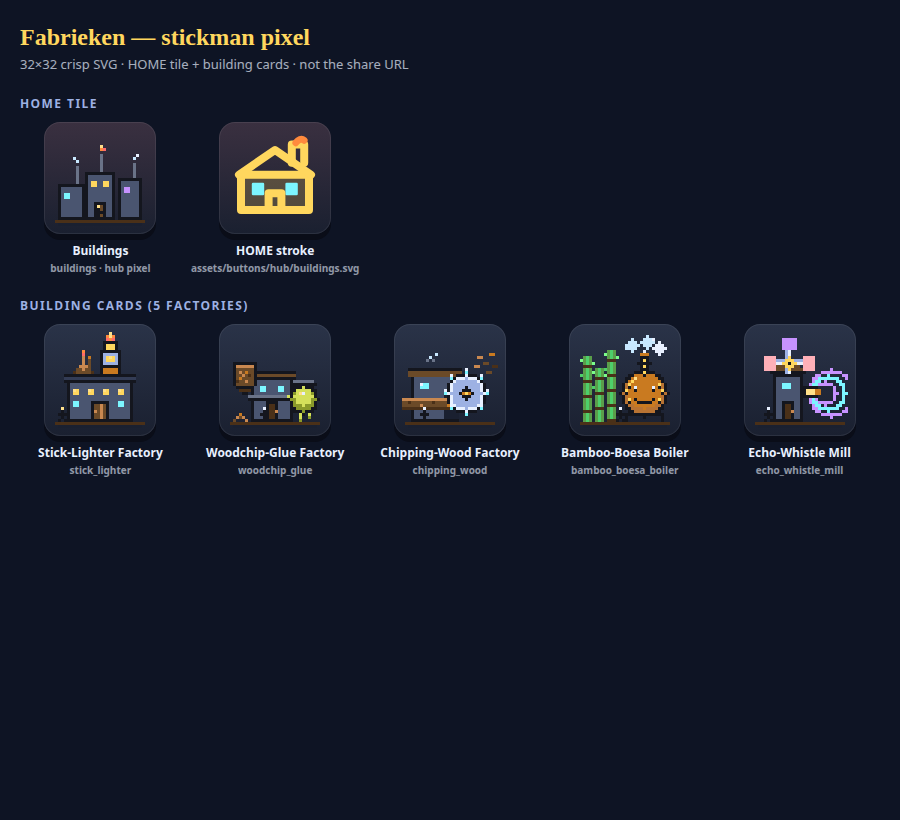
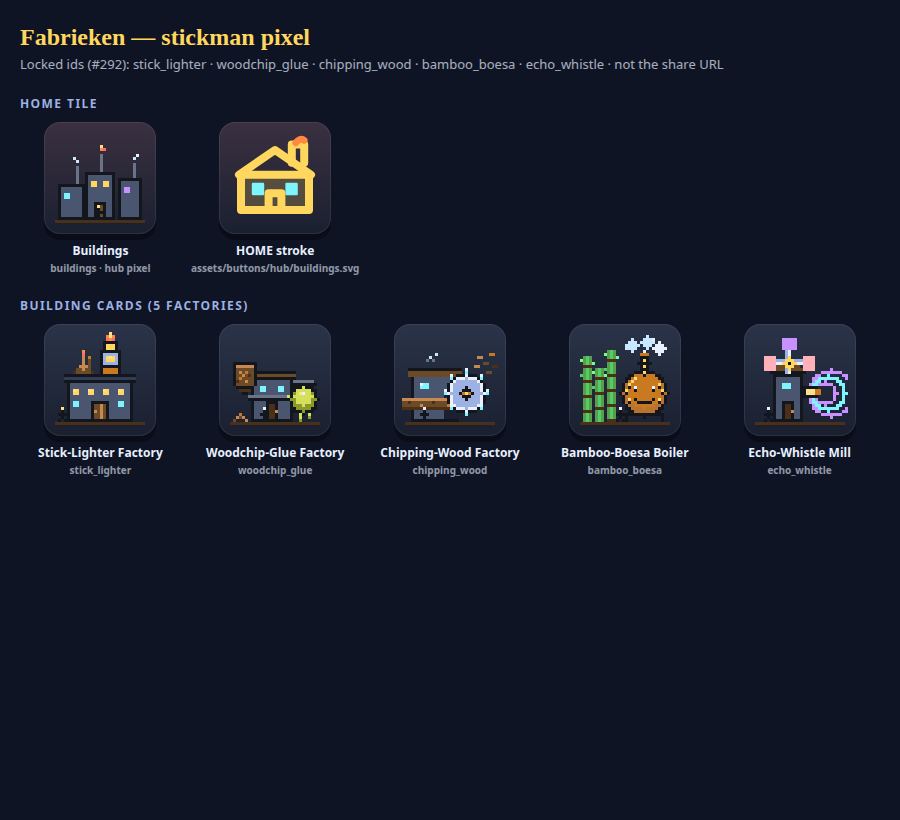
fix(assets): wire factory pixels to #292 locked ids
BUILDING_IDS now exact-match systems: stick_lighter, woodchip_glue,
chipping_wood, bamboo_boesa, echo_whistle. Draft aliases
bamboo_boesa_boiler / echo_whistle_mill still resolve. Mega-merge only.

Changed region(s): [[0.0311, 0.061, 0.8089, 0.0915], [0.6222, 0.5488, 0.7467, 0.5793], [0.84, 0.5488, 0.9333, 0.5793]]

diff --git a/game.js b/game.js
@@ -11740,8 +11740,8 @@ function summonRevealCardDelayMs(totalMs) {
  *   stick_lighter
  *   woodchip_glue
  *   chipping_wood
- *   bamboo_boesa_boiler
- *   echo_whistle_mill
+ *   bamboo_boesa
+ *   echo_whistle
  *
  * Preview: assets/buildings/preview.html
  * Map:     BUILDING-PIXEL-MAP.md
@@ -11776,21 +11776,21 @@ const BUILDING_PIXELS = {
     hub: 'assets/buttons/hub/buildings.svg',
     iconFile: 'assets/buttons/modes/buildings-chipping-wood.svg',
   },
-  bamboo_boesa_boiler: {
-    id: 'bamboo_boesa_boiler',
+  bamboo_boesa: {
+    id: 'bamboo_boesa',
     name: 'Bamboo-Boesa Boiler',
     nameNl: 'Bamboe-Boesa Ketel',
     accent: '#4ecf6a',
-    card: 'assets/buildings/bamboo_boesa_boiler.svg',
+    card: 'assets/buildings/bamboo_boesa.svg',
     hub: 'assets/buttons/hub/buildings.svg',
     iconFile: 'assets/buttons/modes/buildings-bamboo-boesa.svg',
   },
-  echo_whistle_mill: {
-    id: 'echo_whistle_mill',
+  echo_whistle: {
+    id: 'echo_whistle',
     name: 'Echo-Whistle Mill',
     nameNl: 'Echo-Fluitmolen',
     accent: '#c792ff',
-    card: 'assets/buildings/echo_whistle_mill.svg',
+    card: 'assets/buildings/echo_whistle.svg',
     hub: 'assets/buttons/hub/buildings.svg',
     iconFile: 'assets/buttons/modes/buildings-echo-whistle.svg',
   },
@@ -11800,8 +11800,8 @@ const BUILDING_IDS = [
   'stick_lighter',
   'woodchip_glue',
   'chipping_wood',
-  'bamboo_boesa_boiler',
-  'echo_whistle_mill',
+  'bamboo_boesa',
+  'echo_whistle',
 ];
 
 /** HOME tile (stroke + pixel). */
@@ -11836,19 +11836,21 @@ const BUILDING_PIXEL_ALIASES = {
   woodchipper: 'chipping_wood',
   'chip-wood': 'chipping_wood',
 
-  bambooboesaboiler: 'bamboo_boesa_boiler',
-  bambooboesa: 'bamboo_boesa_boiler',
-  'bamboo-boesa': 'bamboo_boesa_boiler',
-  'boesa-boiler': 'bamboo_boesa_boiler',
-  boesa: 'bamboo_boesa_boiler',
-  'bamboo-boiler': 'bamboo_boesa_boiler',
-  bambooboiler: 'bamboo_boesa_boiler',
+  bamboo_boesa_boiler: 'bamboo_boesa',
+  bambooboesaboiler: 'bamboo_boesa',
+  bambooboesa: 'bamboo_boesa',
+  'bamboo-boesa': 'bamboo_boesa',
+  'boesa-boiler': 'bamboo_boesa',
+  boesa: 'bamboo_boesa',
+  'bamboo-boiler': 'bamboo_boesa',
+  bambooboiler: 'bamboo_boesa',
 
-  echowhistlemill: 'echo_whistle_mill',
-  'whistle-mill': 'echo_whistle_mill',
-  whistlemill: 'echo_whistle_mill',
-  'echo-mill': 'echo_whistle_mill',
-  echomill: 'echo_whistle_mill',
+  echo_whistle_mill: 'echo_whistle',
+  echowhistlemill: 'echo_whistle',
+  'whistle-mill': 'echo_whistle',
+  whistlemill: 'echo_whistle',
+  'echo-mill': 'echo_whistle',
+  echomill: 'echo_whistle',
 
   /* leftover generic stubs from early partner drafts — not the locked names */
   dojo: 'chipping_wood',
@@ -11858,17 +11860,17 @@ const BUILDING_PIXEL_ALIASES = {
   smith: 'stick_lighter',
   workshop: 'stick_lighter',
   foundry: 'stick_lighter',
-  garden: 'bamboo_boesa_boiler',
-  farm: 'bamboo_boesa_boiler',
-  kitchen: 'bamboo_boesa_boiler',
+  garden: 'bamboo_boesa',
+  farm: 'bamboo_boesa',
+  kitchen: 'bamboo_boesa',
   tower: 'woodchip_glue',
   watch: 'woodchip_glue',
   barracks: 'woodchip_glue',
   ranch: 'woodchip_glue',
-  shrine: 'echo_whistle_mill',
-  well: 'echo_whistle_mill',
-  temple: 'echo_whistle_mill',
-  mill: 'echo_whistle_mill',
+  shrine: 'echo_whistle',
+  well: 'echo_whistle',
+  temple: 'echo_whistle',
+  mill: 'echo_whistle',
 };
 
 function _buildingKeyForms(id) {

diff --git a/src/data/building-pixels.js b/src/data/building-pixels.js
@@ -5,8 +5,8 @@
  *   stick_lighter
  *   woodchip_glue
  *   chipping_wood
- *   bamboo_boesa_boiler
- *   echo_whistle_mill
+ *   bamboo_boesa
+ *   echo_whistle
  *
  * Preview: assets/buildings/preview.html
  * Map:     BUILDING-PIXEL-MAP.md
@@ -41,21 +41,21 @@ const BUILDING_PIXELS = {
     hub: 'assets/buttons/hub/buildings.svg',
     iconFile: 'assets/buttons/modes/buildings-chipping-wood.svg',
   },
-  bamboo_boesa_boiler: {
-    id: 'bamboo_boesa_boiler',
+  bamboo_boesa: {
+    id: 'bamboo_boesa',
     name: 'Bamboo-Boesa Boiler',
     nameNl: 'Bamboe-Boesa Ketel',
     accent: '#4ecf6a',
-    card: 'assets/buildings/bamboo_boesa_boiler.svg',
+    card: 'assets/buildings/bamboo_boesa.svg',
     hub: 'assets/buttons/hub/buildings.svg',
     iconFile: 'assets/buttons/modes/buildings-bamboo-boesa.svg',
   },
-  echo_whistle_mill: {
-    id: 'echo_whistle_mill',
+  echo_whistle: {
+    id: 'echo_whistle',
     name: 'Echo-Whistle Mill',
     nameNl: 'Echo-Fluitmolen',
     accent: '#c792ff',
-    card: 'assets/buildings/echo_whistle_mill.svg',
+    card: 'assets/buildings/echo_whistle.svg',
     hub: 'assets/buttons/hub/buildings.svg',
     iconFile: 'assets/buttons/modes/buildings-echo-whistle.svg',
   },
@@ -65,8 +65,8 @@ const BUILDING_IDS = [
   'stick_lighter',
   'woodchip_glue',
   'chipping_wood',
-  'bamboo_boesa_boiler',
-  'echo_whistle_mill',
+  'bamboo_boesa',
+  'echo_whistle',
 ];
 
 /** HOME tile (stroke + pixel). */
@@ -101,19 +101,21 @@ const BUILDING_PIXEL_ALIASES = {
   woodchipper: 'chipping_wood',
   'chip-wood': 'chipping_wood',
 
-  bambooboesaboiler: 'bamboo_boesa_boiler',
-  bambooboesa: 'bamboo_boesa_boiler',
-  'bamboo-boesa': 'bamboo_boesa_boiler',
-  'boesa-boiler': 'bamboo_boesa_boiler',
-  boesa: 'bamboo_boesa_boiler',
-  'bamboo-boiler': 'bamboo_boesa_boiler',
-  bambooboiler: 'bamboo_boesa_boiler',
+  bamboo_boesa_boiler: 'bamboo_boesa',
+  bambooboesaboiler: 'bamboo_boesa',
+  bambooboesa: 'bamboo_boesa',
+  'bamboo-boesa': 'bamboo_boesa',
+  'boesa-boiler': 'bamboo_boesa',
+  boesa: 'bamboo_boesa',
+  'bamboo-boiler': 'bamboo_boesa',
+  bambooboiler: 'bamboo_boesa',
 
-  echowhistlemill: 'echo_whistle_mill',
-  'whistle-mill': 'echo_whistle_mill',
-  whistlemill: 'echo_whistle_mill',
-  'echo-mill': 'echo_whistle_mill',
-  echomill: 'echo_whistle_mill',
+  echo_whistle_mill: 'echo_whistle',
+  echowhistlemill: 'echo_whistle',
+  'whistle-mill': 'echo_whistle',
+  whistlemill: 'echo_whistle',
+  'echo-mill': 'echo_whistle',
+  echomill: 'echo_whistle',
 
   /* leftover generic stubs from early partner drafts — not the locked names */
   dojo: 'chipping_wood',
@@ -123,17 +125,17 @@ const BUILDING_PIXEL_ALIASES = {
   smith: 'stick_lighter',
   workshop: 'stick_lighter',
   foundry: 'stick_lighter',
-  garden: 'bamboo_boesa_boiler',
-  farm: 'bamboo_boesa_boiler',
-  kitchen: 'bamboo_boesa_boiler',
+  garden: 'bamboo_boesa',
+  farm: 'bamboo_boesa',
+  kitchen: 'bamboo_boesa',
   tower: 'woodchip_glue',
   watch: 'woodchip_glue',
   barracks: 'woodchip_glue',
   ranch: 'woodchip_glue',
-  shrine: 'echo_whistle_mill',
-  well: 'echo_whistle_mill',
-  temple: 'echo_whistle_mill',
-  mill: 'echo_whistle_mill',
+  shrine: 'echo_whistle',
+  well: 'echo_whistle',
+  temple: 'echo_whistle',
+  mill: 'echo_whistle',
 };
 
 function _buildingKeyForms(id) {

diff --git a/assets/buildings/preview.html b/assets/buildings/preview.html
@@ -21,7 +21,7 @@
 </style>
 </head><body>
 <h1>Fabrieken — stickman pixel</h1>
-<p class="sub">32×32 crisp SVG · HOME tile + building cards · not the share URL</p>
+<p class="sub">Locked ids (#292): stick_lighter · woodchip_glue · chipping_wood · bamboo_boesa · echo_whistle · not the share URL</p>
 <h2>HOME tile</h2>
 <div class="grid">
 <figure data-id="buildings">
@@ -47,12 +47,12 @@
   <div class="zoom"><img src="chipping_wood.svg" alt="Chipping-Wood Factory" width="96" height="96"></div>
   <figcaption>Chipping-Wood Factory<small>chipping_wood</small></figcaption>
 </figure>
-<figure data-id="bamboo_boesa_boiler">
-  <div class="zoom"><img src="bamboo_boesa_boiler.svg" alt="Bamboo-Boesa Boiler" width="96" height="96"></div>
-  <figcaption>Bamboo-Boesa Boiler<small>bamboo_boesa_boiler</small></figcaption>
+<figure data-id="bamboo_boesa">
+  <div class="zoom"><img src="bamboo_boesa.svg" alt="Bamboo-Boesa Boiler" width="96" height="96"></div>
+  <figcaption>Bamboo-Boesa Boiler<small>bamboo_boesa</small></figcaption>
 </figure>
-<figure data-id="echo_whistle_mill">
-  <div class="zoom"><img src="echo_whistle_mill.svg" alt="Echo-Whistle Mill" width="96" height="96"></div>
-  <figcaption>Echo-Whistle Mill<small>echo_whistle_mill</small></figcaption>
+<figure data-id="echo_whistle">
+  <div class="zoom"><img src="echo_whistle.svg" alt="Echo-Whistle Mill" width="96" height="96"></div>
+  <figcaption>Echo-Whistle Mill<small>echo_whistle</small></figcaption>
 </figure></div>
 </body></html>

diff --git a/sw.js b/sw.js
@@ -69,11 +69,15 @@ const ASSETS = [
   './assets/buttons/hub/summons.svg',
   './assets/buttons/hub/versus.svg',
   './assets/buildings/bamboo-boesa-boiler.svg',
+  './assets/buildings/bamboo-boesa.svg',
+  './assets/buildings/bamboo_boesa.svg',
   './assets/buildings/bamboo_boesa_boiler.svg',
   './assets/buildings/chipping-wood.svg',
   './assets/buildings/chipping_wood.svg',
   './assets/buildings/dojo.svg',
   './assets/buildings/echo-whistle-mill.svg',
+  './assets/buildings/echo-whistle.svg',
+  './assets/buildings/echo_whistle.svg',
   './assets/buildings/echo_whistle_mill.svg',
   './assets/buildings/forge.svg',
   './assets/buildings/foundry.svg',

diff --git a/BUILDING-PIXEL-MAP.md b/BUILDING-PIXEL-MAP.md
@@ -1,16 +1,16 @@
-# Building pixel ID map (locked)
+# Building pixel ID map (locked = #292)
 
-Mega-merge **3 of 4** — art + wire only. Canonical ids match systems **#292**.
+Mega-merge **3 of 4** — art + wire only. Canonical ids **exact-match** systems **#292**.
 
-**Locked `buildingId` strings — quirky factories, not generic sawmill/forge:**
+**Locked `buildingId` strings:**
 
-| buildingId | name | card | stroke (artHint) |
-|------------|------|------|------------------|
+| buildingId | name | card | stroke (`artHint.iconFile`) |
+|------------|------|------|------------------------------|
 | `stick_lighter` | Stick-Lighter Factory | `assets/buildings/stick_lighter.svg` | `assets/buttons/modes/buildings-stick-lighter.svg` |
 | `woodchip_glue` | Woodchip-Glue Factory | `assets/buildings/woodchip_glue.svg` | `assets/buttons/modes/buildings-woodchip-glue.svg` |
 | `chipping_wood` | Chipping-Wood Factory | `assets/buildings/chipping_wood.svg` | `assets/buttons/modes/buildings-chipping-wood.svg` |
-| `bamboo_boesa_boiler` | Bamboo-Boesa Boiler | `assets/buildings/bamboo_boesa_boiler.svg` | `assets/buttons/modes/buildings-bamboo-boesa.svg` |
-| `echo_whistle_mill` | Echo-Whistle Mill | `assets/buildings/echo_whistle_mill.svg` | `assets/buttons/modes/buildings-echo-whistle.svg` |
+| `bamboo_boesa` | Bamboo-Boesa Boiler | `assets/buildings/bamboo_boesa.svg` | `assets/buttons/modes/buildings-bamboo-boesa.svg` |
+| `echo_whistle` | Echo-Whistle Mill | `assets/buildings/echo_whistle.svg` | `assets/buttons/modes/buildings-echo-whistle.svg` |
 
 HOME tile: `buildings` → stroke `assets/buttons/hub/buildings.svg` · pixel `assets/buildings/hub-buildings.svg`
 
@@ -18,43 +18,33 @@ Preview: [assets/buildings/preview.html](assets/buildings/preview.html)
 
 ## Resolution
 
-`resolveBuildingId(id)` accepts snake_case (locked), kebab-case, camelCase, and
-a few leftover generic stubs from early partner drafts. **Return value is always
-the locked snake_case id.**
+`resolveBuildingId` always returns a locked id.
 
 ```js
-resolveBuildingId('stick_lighter')   // 'stick_lighter'
-resolveBuildingId('stick-lighter')   // 'stick_lighter'
-resolveBuildingId('stickLighter')    // 'stick_lighter'
-buildingArtSrc('woodchip_glue')      // assets/buildings/woodchip_glue.svg
-buildingArtSrc('chipping_wood', 'icon')
+resolveBuildingId('bamboo_boesa')          // 'bamboo_boesa'
+resolveBuildingId('bamboo_boesa_boiler')   // 'bamboo_boesa'  (draft alias)
+resolveBuildingId('echo_whistle_mill')     // 'echo_whistle'
+buildingArtSrc('echo_whistle')             // assets/buildings/echo_whistle.svg
 window.__sfBuildingArt.ids
 ```
 
-Kebab-case SVG copies stay on disk so older probes do not 404.
-
-## Compat only (not the locked names)
-
-Early #290 / #291 stubs used generic ids. Those filenames still exist as
-copies of the quirky art. Do **not** treat them as catalog names.
+## Compat only (not catalog names)
 
 | leftover probe | → locked id |
 |----------------|-------------|
+| `bamboo_boesa_boiler` | `bamboo_boesa` |
+| `echo_whistle_mill` | `echo_whistle` |
+| kebab / camelCase of the locked ids | same locked id |
 | `forge` / `foundry` | `stick_lighter` |
 | `dojo` / `sawmill` | `chipping_wood` |
 | `tower` / `ranch` | `woodchip_glue` |
-| `garden` | `bamboo_boesa_boiler` |
-| `shrine` / `mill` | `echo_whistle_mill` |
+| `garden` | `bamboo_boesa` |
+| `shrine` / `mill` | `echo_whistle` |
 
-## Files / size
-
-- 32×32 crisp SVG cards (`shape-rendering=crispEdges`), typically &lt; 5 KB
-- HOME + per-factory stroke icons are 24×24 ASSET-STYLE
-- `npm run pixels:buildings` regenerates cards + preview
+Do **not** treat mill / forge / dojo / shrine as catalog names.
 
 ## Do not
 
-- Implement loot / timers / HOME tile markup here (systems / powers / UI).
+- Merge to main (mega-merge batch).
 - Point the share URL at the preview — players stay on `speel.html`.
 - Add Versus.
-- Rename the locked ids to mill / forge / dojo / shrine.

diff --git a/assets/buildings/README.md b/assets/buildings/README.md
@@ -1,20 +1,20 @@
 # assets/buildings — factory pixel icons
 
-32×32 stickman-pixel SVGs. **Locked ids** (quirky factories, not generic sawmill/forge):
+32×32 stickman-pixel SVGs. **Locked ids = systems #292:**
 
 | File | buildingId |
 |------|------------|
 | `stick_lighter.svg` | `stick_lighter` |
 | `woodchip_glue.svg` | `woodchip_glue` |
 | `chipping_wood.svg` | `chipping_wood` |
-| `bamboo_boesa_boiler.svg` | `bamboo_boesa_boiler` |
-| `echo_whistle_mill.svg` | `echo_whistle_mill` |
+| `bamboo_boesa.svg` | `bamboo_boesa` |
+| `echo_whistle.svg` | `echo_whistle` |
 | `hub-buildings.svg` | `buildings` (HOME pixel) |
 
-Kebab-case copies (`stick-lighter.svg`, …) exist for older probes.
+Draft aliases (`bamboo_boesa_boiler.svg`, `echo_whistle_mill.svg`, kebab-case) still exist so old probes do not 404.
 
-HOME **stroke** tile: `assets/buttons/hub/buildings.svg`  
-Per-factory stroke (systems `artHint.iconFile`): `assets/buttons/modes/buildings-*.svg`
+HOME stroke: `assets/buttons/hub/buildings.svg`  
+Per-factory stroke: `assets/buttons/modes/buildings-*.svg`
 
 Wire map: [`../../BUILDING-PIXEL-MAP.md`](../../BUILDING-PIXEL-MAP.md)  
 Regenerate: `npm run pixels:buildings`  

diff --git a/HANDOFF-ZOEKINDEX.md b/HANDOFF-ZOEKINDEX.md
@@ -20,7 +20,7 @@ rg -l "handoff|coinrun|projAimVelocity|charSelectScreen|ASSET-STYLE" .
 | Gebruiker vroeg | Versie | Commit | Waar in code |
 |-----------------|--------|--------|----------------|
 | **Asset / knop-stijl (leidend)** | docs | — | `ASSET-STYLE.md`, `assets/buttons/` |
-| **Buildings pixel (3 of 4)** | 1.18.164 | this branch | locked `stick_lighter`…`echo_whistle_mill` · `BUILDING-PIXEL-MAP.md` |
+| **Buildings pixel (3 of 4)** | 1.18.164 | this branch | #292 ids `stick_lighter`…`bamboo_boesa`/`echo_whistle` · `BUILDING-PIXEL-MAP.md` |
 | Character select **deel 1** | 1.11.1 | `09b7dc2` | `index.html` `#charSelectScreen`, `game.js` charPickStep |
 | Character select **deel 2** | 1.11.2 | `7d236c1` | `#charIconRow`, `#btnCharSagaClash`, saga strip |
 | **Mats** muntjes bonus | 1.12.0 | `f6c86bf` | `coinrun`, `#btnMatsCoins`, `initCoinRun` |

diff --git a/IMPROVEMENT.md b/IMPROVEMENT.md
@@ -1,4 +1,4 @@
-| 2026-09-14 | **buildings art** | Locked ids `stick_lighter`…`echo_whistle_mill` (quirky, not forge/sawmill) + HOME tile. Draft, no merge. **v1.18.164 / SW v374**. |
+| 2026-09-14 | **buildings art** | Wired to #292 ids `stick_lighter`…`bamboo_boesa`/`echo_whistle`. Mega-merge only. **v1.18.164 / SW v374**. |
 | 2026-09-14 | **locale + toast** | #266: NL VERLOREN, geen raw menu.tips / PICK AN ISLAND; versie-banner stiller + wegklik; rest HOME. **v1.18.163 / SW v373**. |
 | 2026-09-14 | **unify polish** | Start: geen naamveld, SPELEN-first; alle schermen HOME-tegels. #265 folded. **v1.18.162 / SW v372**. |
 | 2026-09-14 | **arcade pick** | STEP 2 pick-mode = HOME hub-tegels; chrome/toasts volgen game-taal. **v1.18.161 / SW v371**. |
